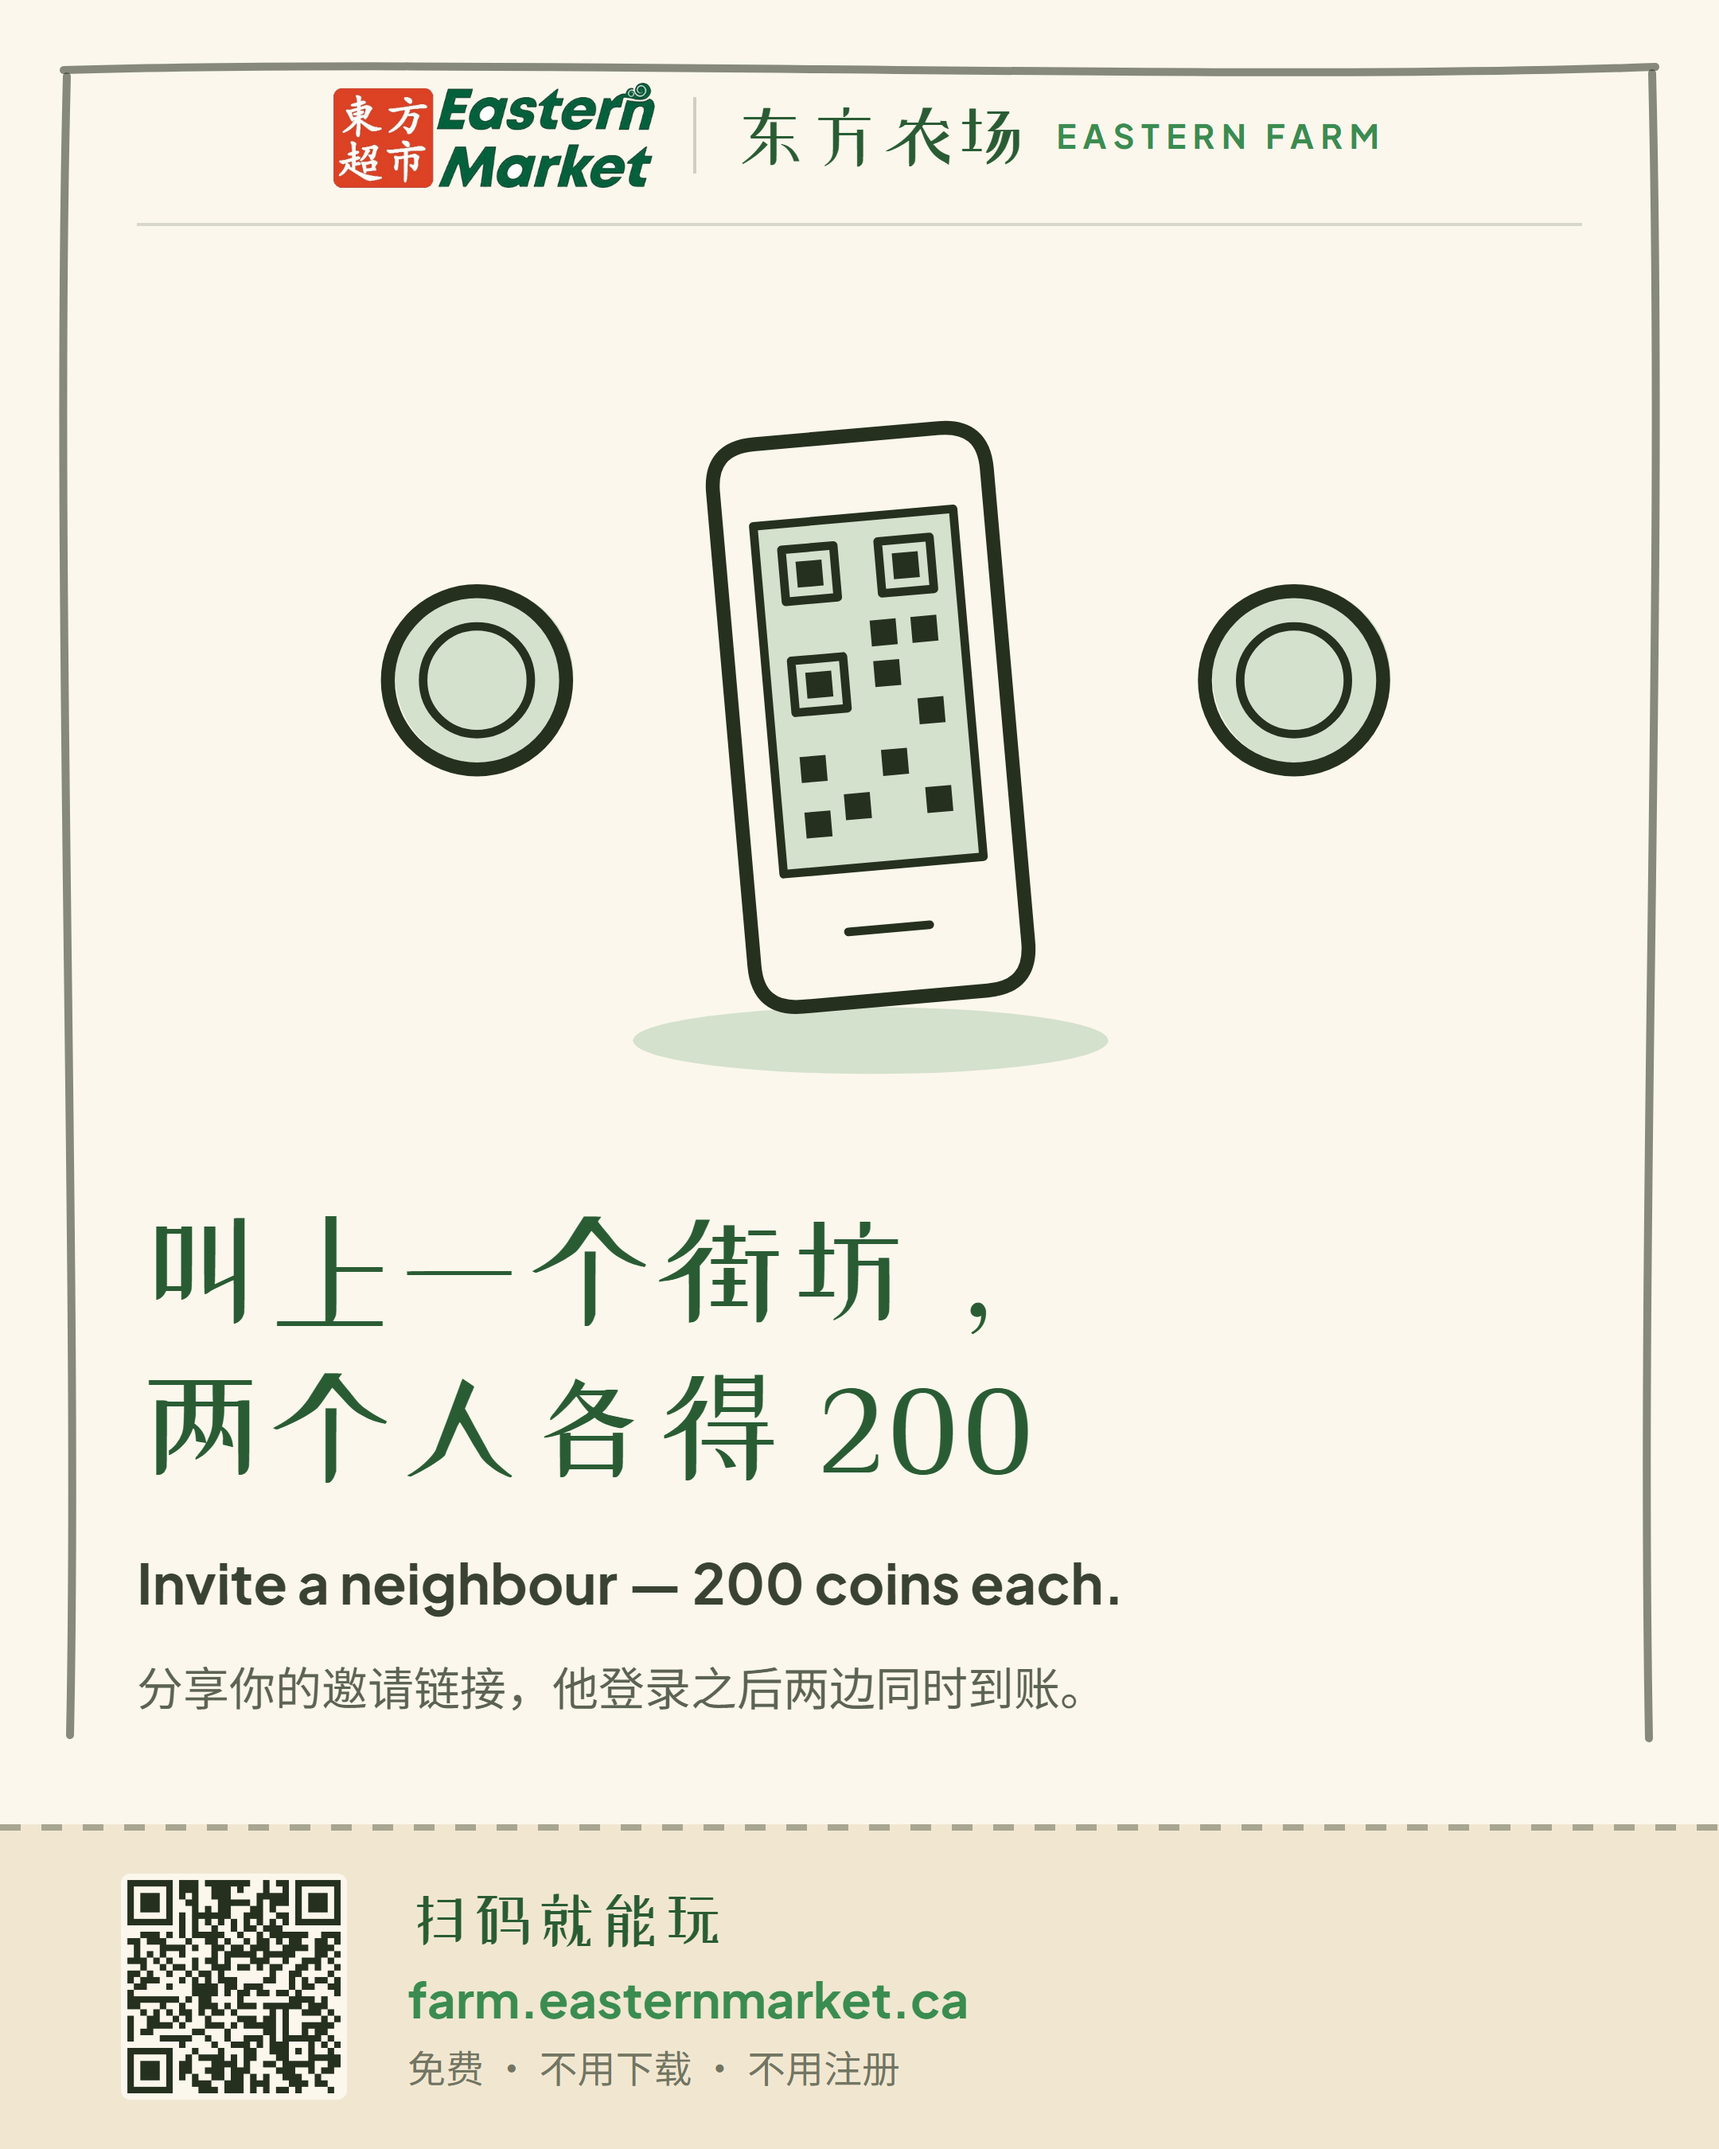
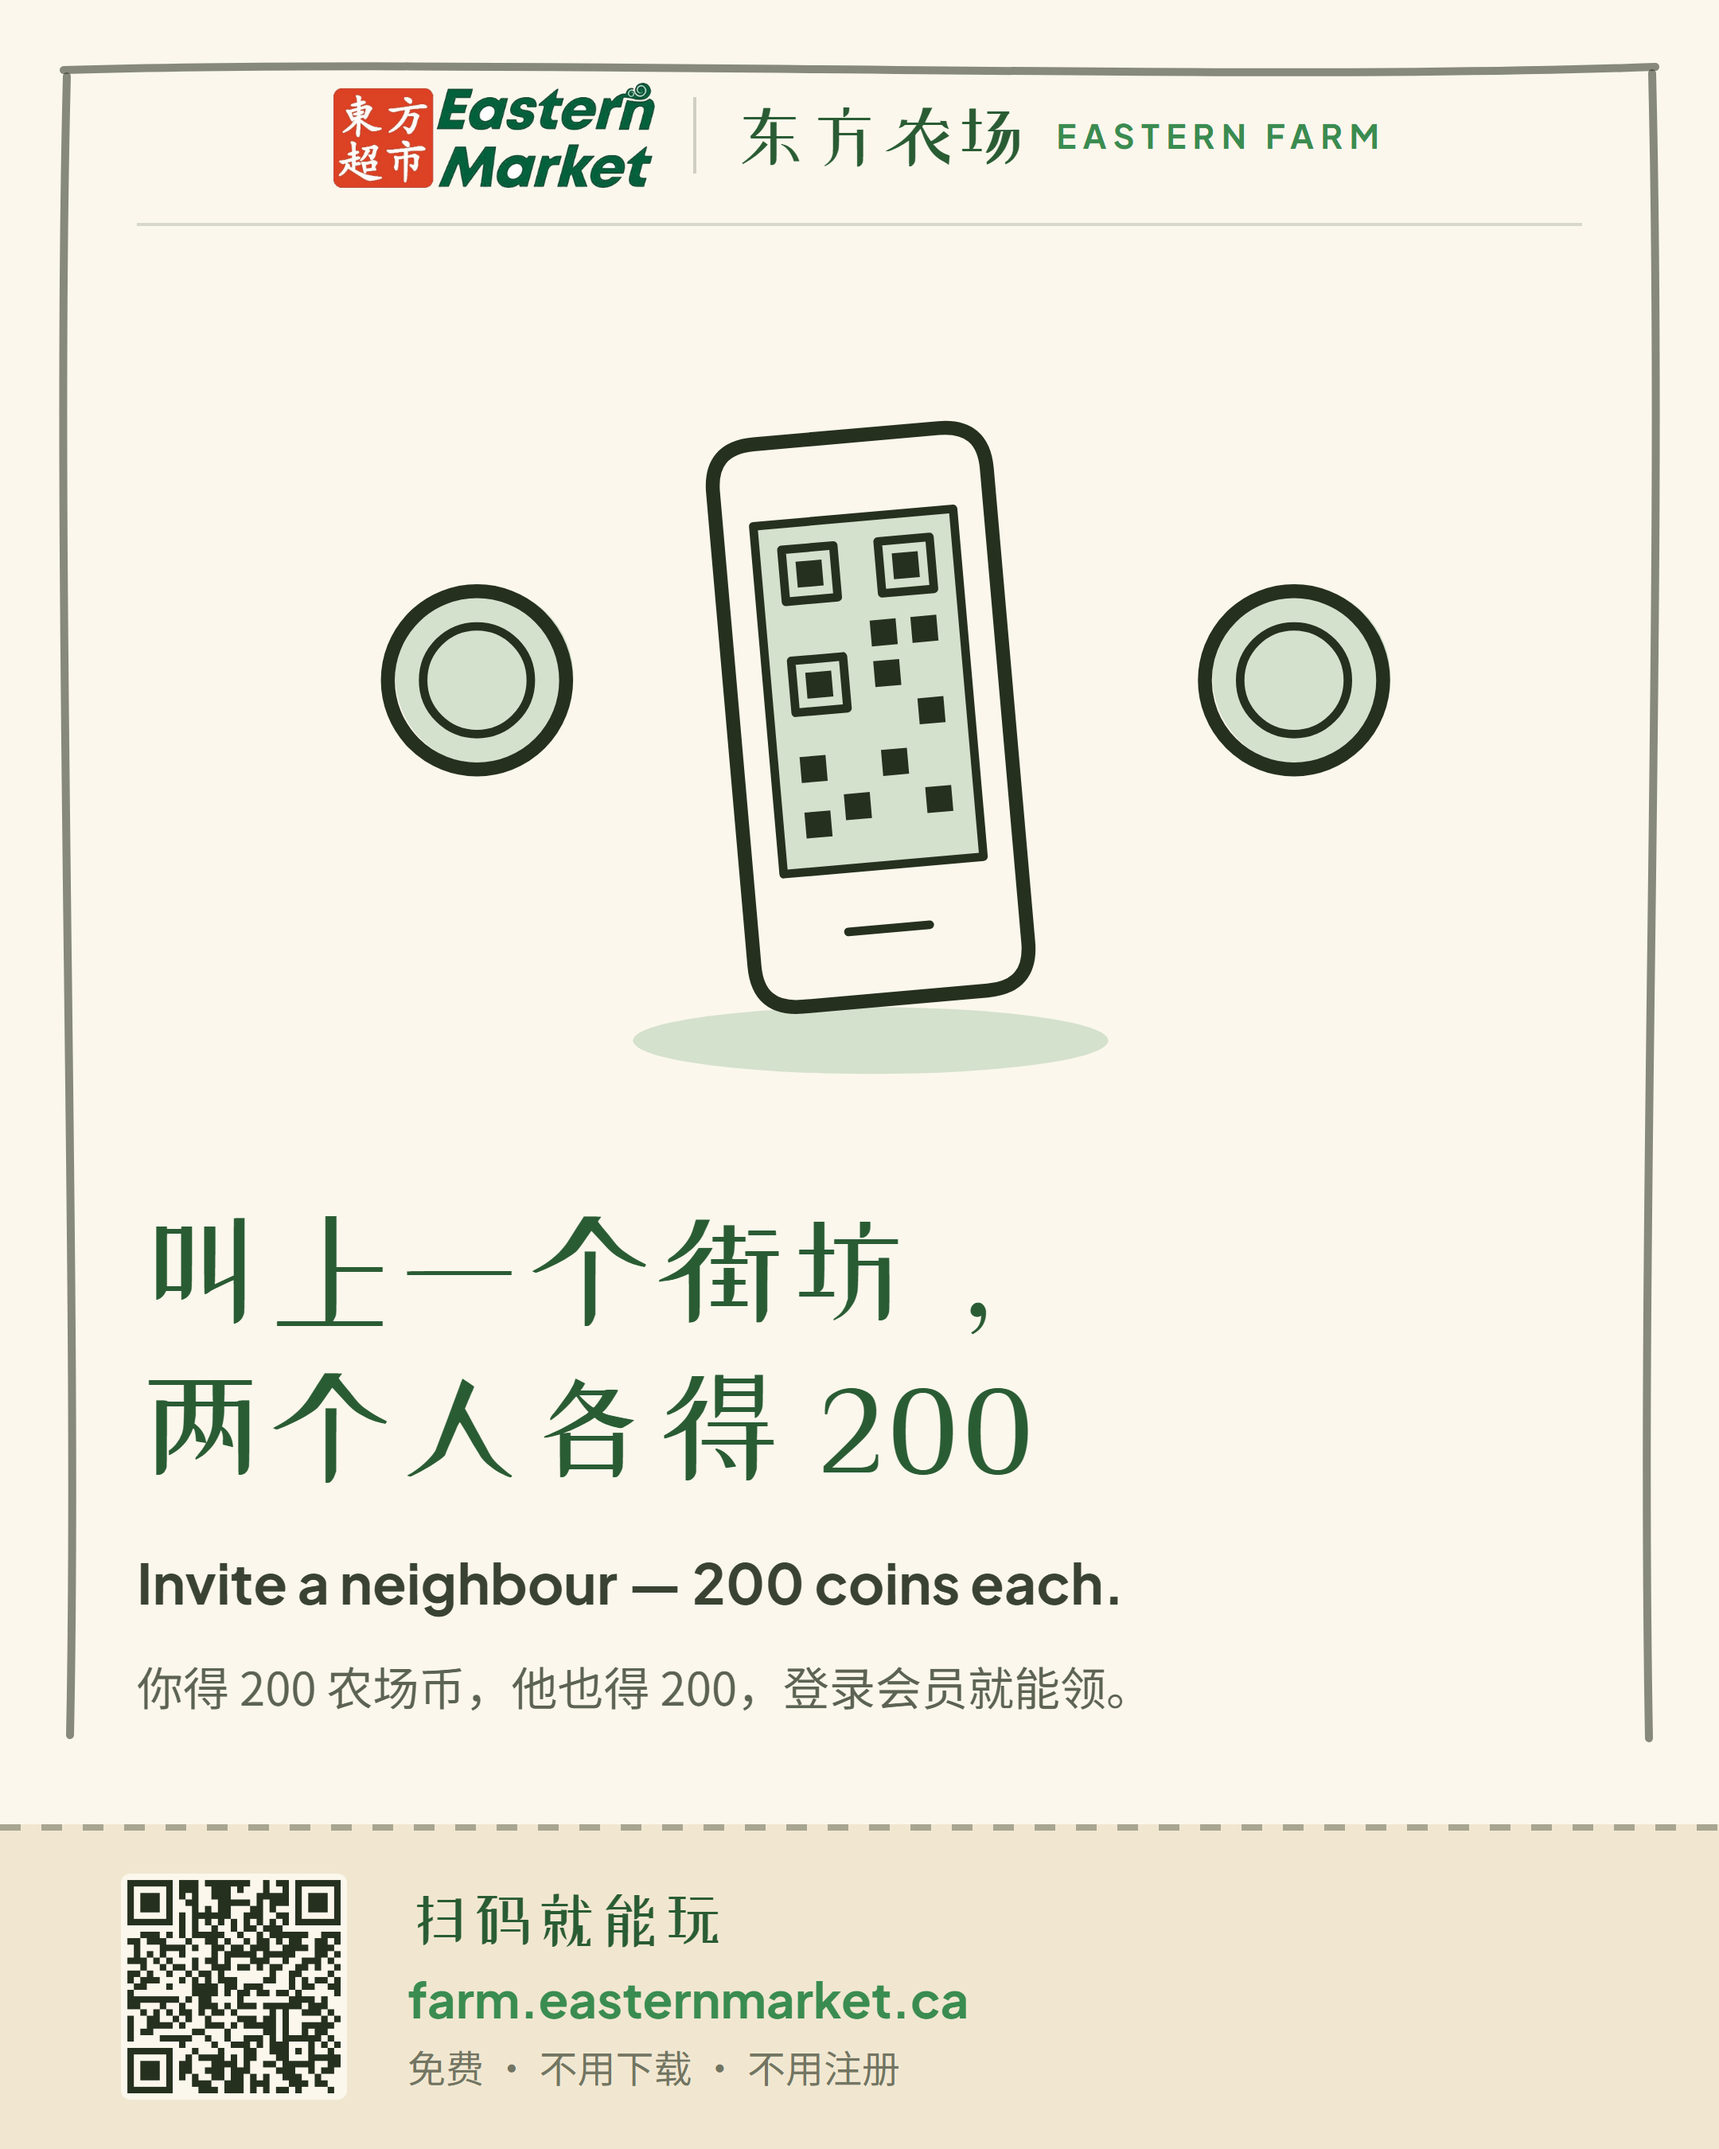
promo: 04-invite 的副文改回原话（Chris：原来的更好）
「你得 200 农场币，他也得 200，登录会员就能领。」比我改的
「分享你的邀请链接，他登录之后两边同时到账」好 —— 前者一眼就懂
两个人都有，后者变成了操作说明。

Claude-Session: https://claude.ai/code/session_01KvZp1rgrhXiPLah8yWTVGK

Changed region(s): [[0.062, 0.7778, 0.6514, 0.8089]]

diff --git a/scripts/_make_sketch_cards.html b/scripts/_make_sketch_cards.html
@@ -152,7 +152,7 @@ const P = [
 {
  eye:'带一个人', zh:'叫上一个街坊，<br>两个人各得 200',
  en:'Invite a neighbour — 200 coins each.',
- sub:'分享你的邀请链接，他登录之后两边同时到账。',
+ sub:'你得 200 农场币，他也得 200，登录会员就能领。',
  svg:`
   <ellipse class="wash" cx="336" cy="418" rx="128" ry="18"/>
   <g transform="rotate(-5 336 244)">
